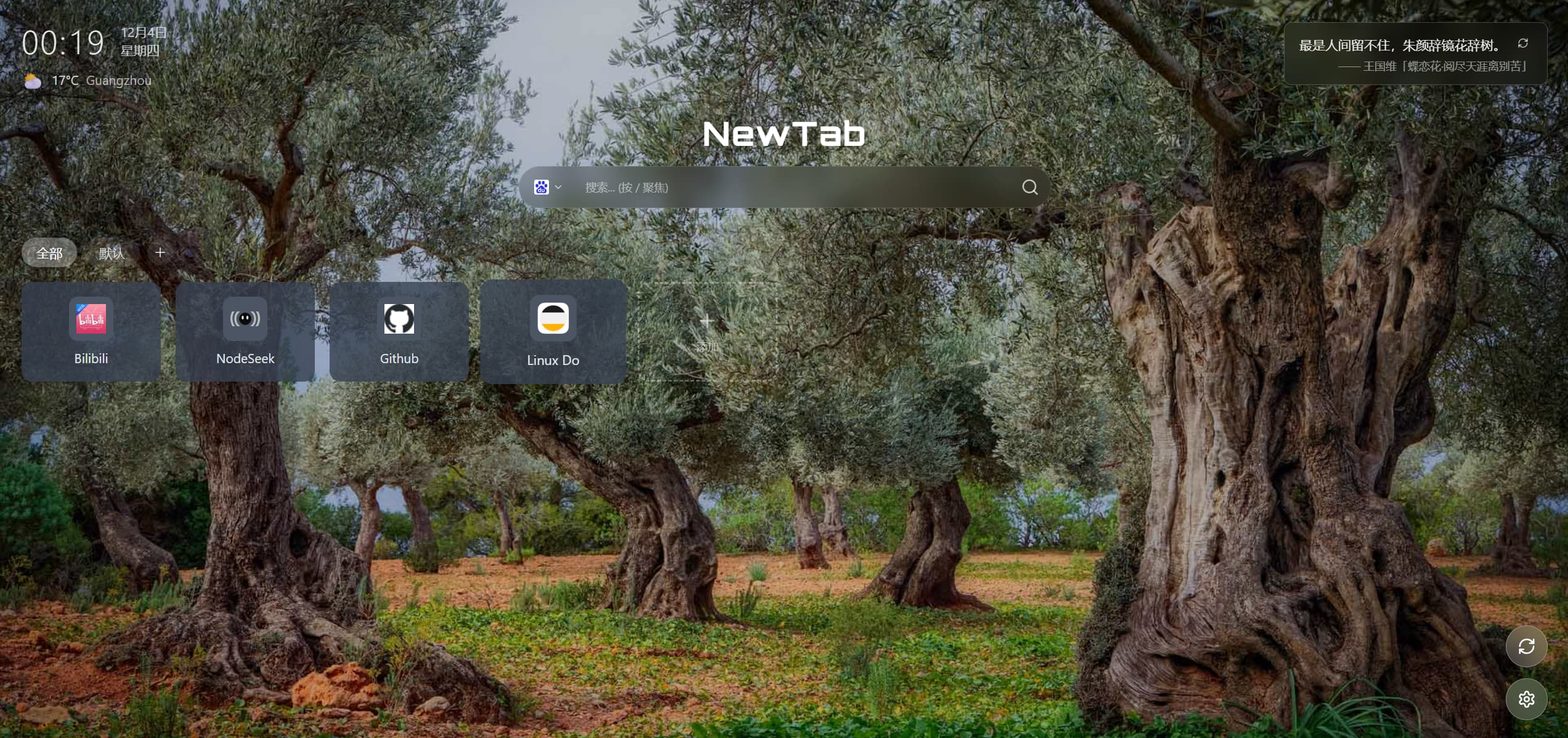
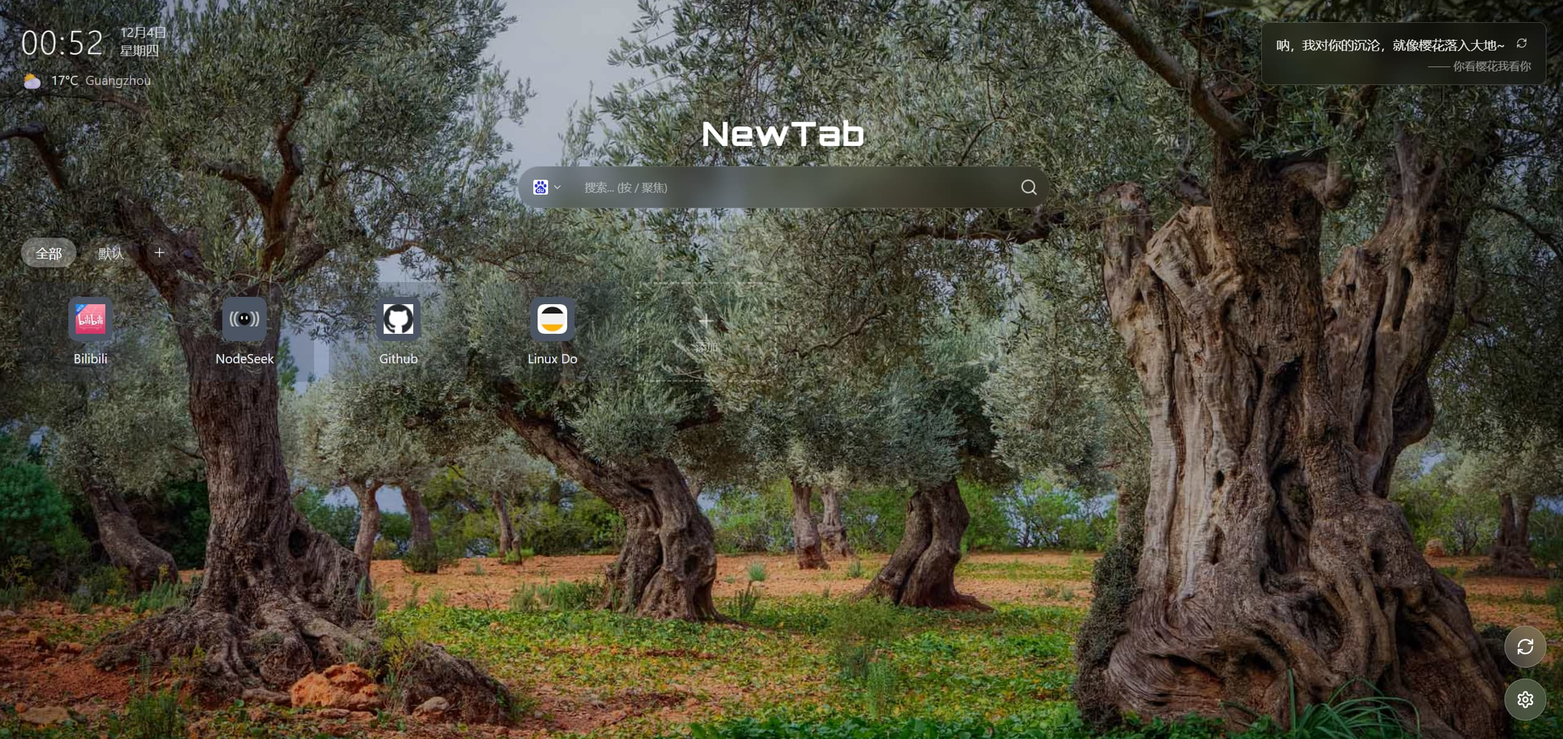
✨ feat(cards): add drag overlay styling and glass effect options - introduce isDragOverlay prop with visual enhancements【feat】 - implement DragOverlay in CardGrid for active dragging preview【feat】 - add settings for glass effect and blur intensity on cards【feat】 - adjust dragging visuals: opacity, s

diff --git a/src/components/Cards/CardGrid.tsx b/src/components/Cards/CardGrid.tsx
@@ -9,6 +9,8 @@ import {
   useSensor,
   useSensors,
   DragEndEvent,
+  DragStartEvent,
+  DragOverlay,
 } from '@dnd-kit/core';
 import {
   arrayMove,
@@ -37,6 +39,9 @@ export function CardGrid() {
 
   const [editingSite, setEditingSite] = useState<Site | null>(null);
   const [showAddModal, setShowAddModal] = useState(false);
+  const [activeId, setActiveId] = useState<string | null>(null);
+
+  const activeSite = activeId ? sites.find((s) => s.id === activeId) : null;
 
   const sensors = useSensors(
     useSensor(PointerSensor, {
@@ -52,6 +57,10 @@ export function CardGrid() {
       ? sites
       : sites.filter((site) => site.groupId === activeGroup);
 
+  const handleDragStart = (event: DragStartEvent) => {
+    setActiveId(event.active.id as string);
+  };
+
   const handleDragEnd = (event: DragEndEvent) => {
     const { active, over } = event;
     if (over && active.id !== over.id) {
@@ -59,6 +68,7 @@ export function CardGrid() {
       const newIndex = sites.findIndex((s) => s.id === over.id);
       reorderSites(arrayMove(sites, oldIndex, newIndex));
     }
+    setActiveId(null);
   };
 
   return (
@@ -68,6 +78,7 @@ export function CardGrid() {
       <DndContext
         sensors={sensors}
         collisionDetection={closestCenter}
+        onDragStart={handleDragStart}
         onDragEnd={handleDragEnd}
       >
         <SortableContext items={filteredSites.map((s) => s.id)} strategy={rectSortingStrategy}>
@@ -76,7 +87,7 @@ export function CardGrid() {
             className={`grid ${GRID_COLS[cardSize]} gap-4`}
           >
             {filteredSites.map((site) => (
-              <Card key={site.id} site={site} onEdit={setEditingSite} />
+              <Card key={site.id} site={site} onEdit={setEditingSite} isDragOverlay={false} />
             ))}
             {(settings.addButtonPosition === 'card' || settings.addButtonPosition === 'both') && (
               <motion.button
@@ -96,6 +107,11 @@ export function CardGrid() {
             )}
           </motion.div>
         </SortableContext>
+        <DragOverlay>
+          {activeSite ? (
+            <Card site={activeSite} onEdit={() => {}} isDragOverlay={true} />
+          ) : null}
+        </DragOverlay>
       </DndContext>
 
       {filteredSites.length === 0 && settings.addButtonPosition === 'corner' && (

diff --git a/src/utils/api.ts b/src/utils/api.ts
@@ -99,54 +99,6 @@ function getWeatherIcon(code: string): string {
 export async function getFaviconUrl(url: string): Promise<string> {
   try {
     const urlObj = new URL(url.startsWith('http') ? url : `https://${url}`);
-    const origin = urlObj.origin;
-    
-    // 尝试从网站 HTML 中获取图标链接
-    try {
-      const response = await fetch(urlObj.href, {
-        method: 'GET',
-        signal: AbortSignal.timeout(3000),
-      });
-      
-      if (response.ok) {
-        const html = await response.text();
-        // 匹配 <link rel="icon" href="..."> 或 <link rel="shortcut icon" href="...">
-        const iconMatch = html.match(/<link[^>]*rel=["'](?:shortcut )?icon["'][^>]*href=["']([^"']+)["']/i)
-          || html.match(/<link[^>]*href=["']([^"']+)["'][^>]*rel=["'](?:shortcut )?icon["']/i);
-        
-        if (iconMatch?.[1]) {
-          const iconHref = iconMatch[1];
-          // 处理相对路径
-          if (iconHref.startsWith('//')) {
-            return `https:${iconHref}`;
-          } else if (iconHref.startsWith('/')) {
-            return `${origin}${iconHref}`;
-          } else if (iconHref.startsWith('http')) {
-            return iconHref;
-          } else {
-            return `${origin}/${iconHref}`;
-          }
-        }
-      }
-    } catch {
-      // 解析失败，继续尝试其他方式
-    }
-    
-    // 尝试默认的 favicon.ico
-    const faviconUrl = `${origin}/favicon.ico`;
-    try {
-      const faviconResponse = await fetch(faviconUrl, {
-        method: 'HEAD',
-        signal: AbortSignal.timeout(2000),
-      });
-      if (faviconResponse.ok) {
-        return faviconUrl;
-      }
-    } catch {
-      // favicon.ico 不存在
-    }
-    
-    // 回退到 Google 的 favicon 服务
     return `https://www.google.com/s2/favicons?domain=${urlObj.hostname}&sz=64`;
   } catch {
     return '';

diff --git a/src/components/Cards/Card.tsx b/src/components/Cards/Card.tsx
@@ -15,9 +15,10 @@ const CARD_SIZES: Record<CardSize, { icon: number; padding: number; maxWidth: nu
 interface CardProps {
   site: Site;
   onEdit: (site: Site) => void;
+  isDragOverlay?: boolean;
 }
 
-export function Card({ site, onEdit }: CardProps) {
+export function Card({ site, onEdit, isDragOverlay = false }: CardProps) {
   const [showMenu, setShowMenu] = useState(false);
   const settings = useStore((state) => state.settings);
   const groups = useStore((state) => state.groups);
@@ -36,7 +37,8 @@ export function Card({ site, onEdit }: CardProps) {
   const style = {
     transform: CSS.Transform.toString(transform),
     transition,
-    opacity: isDragging ? 0.5 : 1,
+    opacity: isDragging ? 0.4 : 1,
+    scale: isDragging ? 0.95 : 1,
   };
 
   const sizeConfig = CARD_SIZES[settings.cardSize || 'medium'];
@@ -70,13 +72,19 @@ export function Card({ site, onEdit }: CardProps) {
         {...attributes}
         {...listeners}
         onClick={handleClick}
-        className="flex flex-col items-center gap-2 cursor-pointer transition-all"
+        className={`flex flex-col items-center gap-2 cursor-pointer transition-all ${
+          isDragOverlay ? 'shadow-2xl ring-2 ring-white/30' : ''
+        }`}
         style={{
           backgroundColor: isDark 
             ? `rgba(55, 65, 81, ${settings.cardOpacity})` 
             : `rgba(255, 255, 255, ${settings.cardOpacity})`,
           borderRadius: `${settings.cardRadius}px`,
           padding: `${sizeConfig.padding}px`,
+          backdropFilter: settings.cardGlassEffect ? `blur(${settings.cardBlur}px)` : undefined,
+          WebkitBackdropFilter: settings.cardGlassEffect ? `blur(${settings.cardBlur}px)` : undefined,
+          transform: isDragOverlay ? 'scale(1.05)' : undefined,
+          cursor: isDragOverlay ? 'grabbing' : undefined,
         }}
       >
         <div

diff --git a/src/components/Modals/SettingsModal.tsx b/src/components/Modals/SettingsModal.tsx
@@ -339,6 +339,39 @@ export function SettingsModal({ onClose }: SettingsModalProps) {
                   />
                 </div>
 
+                <div className="flex items-center justify-between">
+                  <span className="text-sm text-gray-700 dark:text-gray-300">磨砂玻璃效果</span>
+                  <button
+                    onClick={() => updateSettings({ cardGlassEffect: !settings.cardGlassEffect })}
+                    className={`w-12 h-6 rounded-full transition-colors ${
+                      !settings.cardGlassEffect ? 'bg-gray-300 dark:bg-gray-600' : ''
+                    }`}
+                    style={toggleStyle(settings.cardGlassEffect)}
+                  >
+                    <div
+                      className={`w-5 h-5 bg-white rounded-full shadow transition-transform ${
+                        settings.cardGlassEffect ? 'translate-x-6' : 'translate-x-0.5'
+                      }`}
+                    />
+                  </button>
+                </div>
+
+                {settings.cardGlassEffect && (
+                  <div>
+                    <h3 className="text-sm font-medium text-gray-700 dark:text-gray-300 mb-3">
+                      模糊程度: {settings.cardBlur}px
+                    </h3>
+                    <input
+                      type="range"
+                      min="0"
+                      max="30"
+                      value={settings.cardBlur}
+                      onChange={(e) => updateSettings({ cardBlur: parseInt(e.target.value) })}
+                      className="w-full"
+                    />
+                  </div>
+                )}
+
                 <div>
                   <h3 className="text-sm font-medium text-gray-700 dark:text-gray-300 mb-3">卡片大小</h3>
                   <div className="flex gap-2">

diff --git a/src/types/index.ts b/src/types/index.ts
@@ -81,6 +81,8 @@ export interface Settings {
   wallpaper: WallpaperConfig;
   cardRadius: number;
   cardOpacity: number;
+  cardGlassEffect: boolean;
+  cardBlur: number;
   cardSize: CardSize;
   addButtonPosition: AddButtonPosition;
   showRandomWallpaperBtn: boolean;
@@ -117,6 +119,8 @@ export const DEFAULT_SETTINGS: Settings = {
   },
   cardRadius: 12,
   cardOpacity: 0.8,
+  cardGlassEffect: false,
+  cardBlur: 10,
   cardSize: 'medium',
   addButtonPosition: 'both',
   showRandomWallpaperBtn: true,
